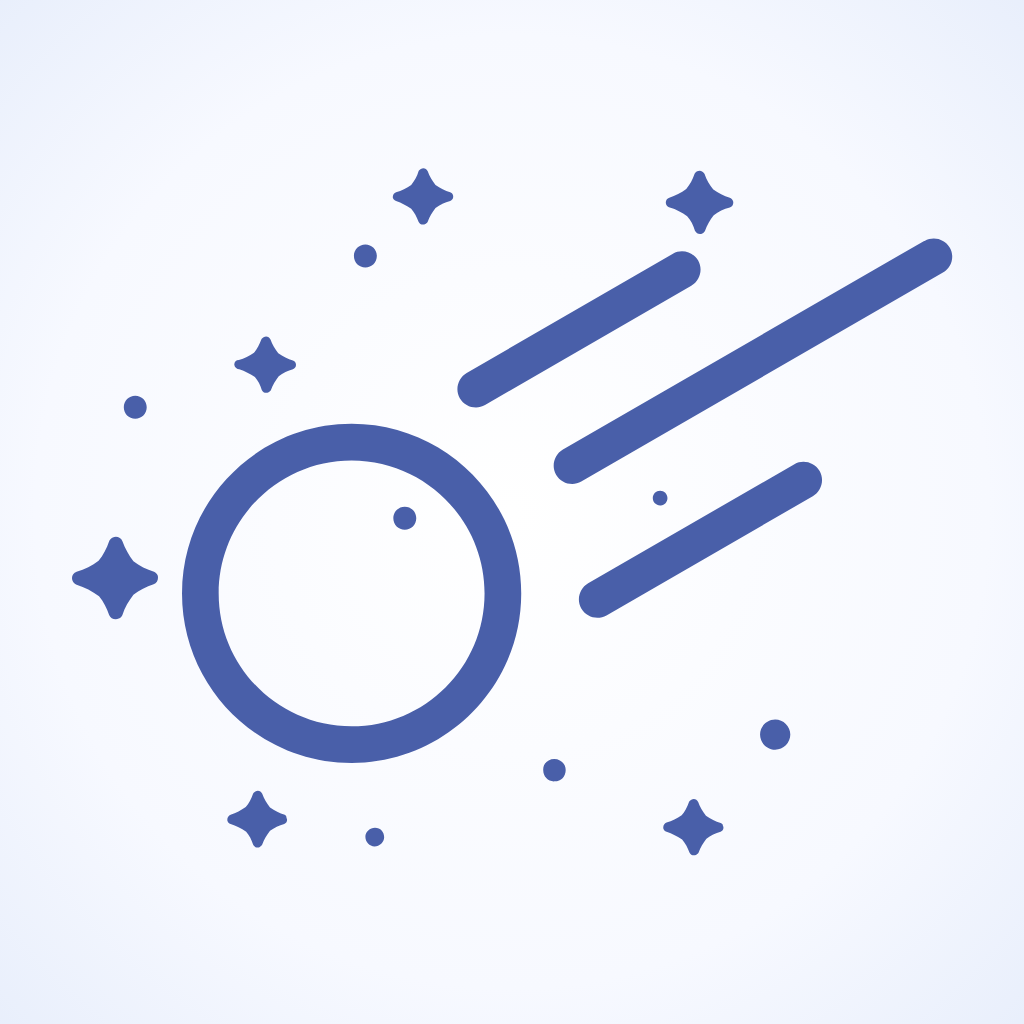
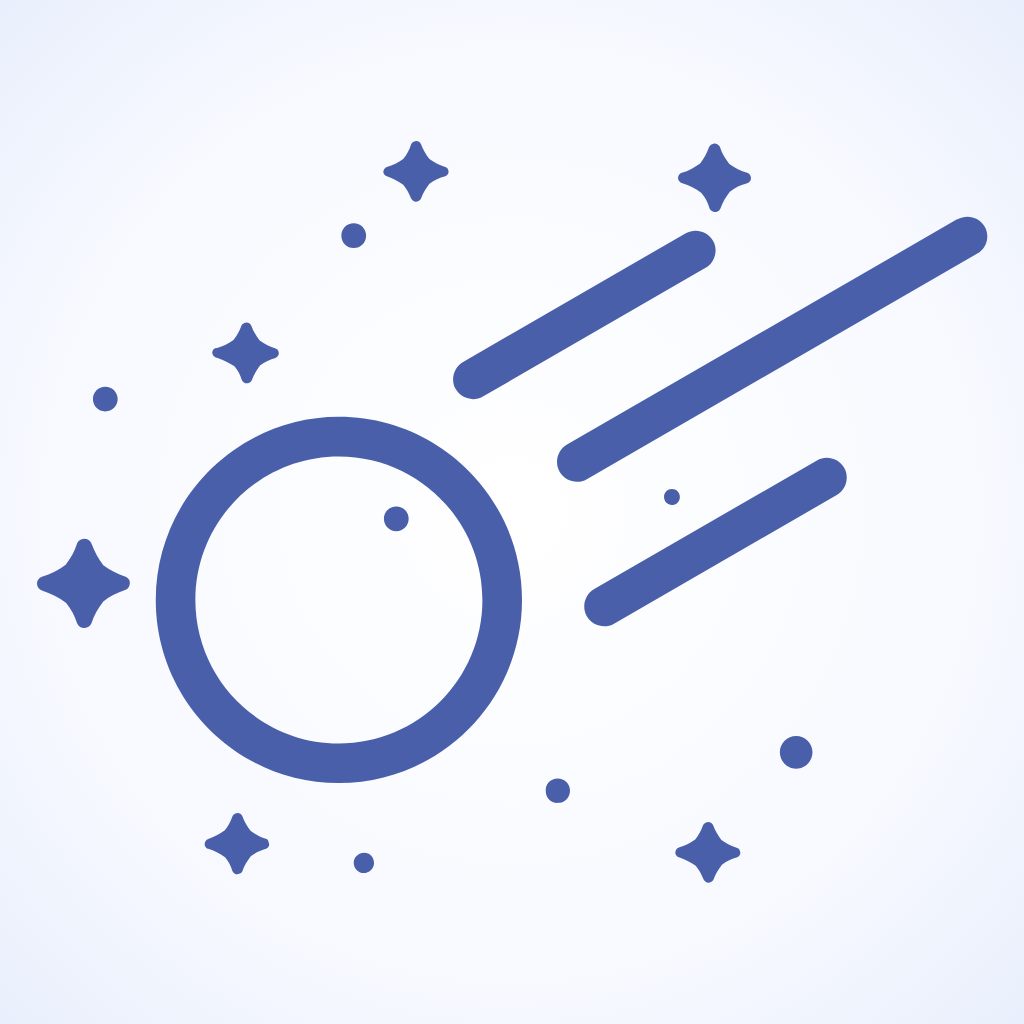
图标：放大图形并按尺寸矢量渲染

diff --git a/tool/icon_fg.html b/tool/icon_fg.html
@@ -3,7 +3,7 @@
 <style>html,body{margin:0;padding:0;overflow:hidden;background:transparent}svg{display:block}</style>
 </head><body>
 <svg width="1536" height="1536" viewBox="0 0 1536 1536" xmlns="http://www.w3.org/2000/svg">
-  <g transform="translate(328.0,424.3) scale(0.6712)">
+  <g transform="translate(293.00,396.99) scale(0.72464)">
 <path d="M890.566443 58.309087c9.561296 2.731799 18.439643 7.512447 25.95209 12.976044 5.463598 6.146548 9.561296 13.658995 11.610145 21.854392 2.048849 4.097698 6.829497 6.146548 10.927196 4.097698 2.048849-0.68295 3.414749-2.731799 4.097698-4.097698 2.731799-8.195397 7.512447-16.390793 12.976045-23.220291 6.829497-5.463598 15.024894-9.561296 23.903241-11.610145 4.097698-1.365899 6.146548-5.463598 4.780648-9.561297-0.68295-2.048849-2.731799-4.097698-4.780648-4.780648-8.878346-2.731799-17.073743-6.829497-24.586191-12.293095-5.463598-6.829497-10.244246-14.341944-12.976044-23.22029-2.048849-4.097698-6.829497-6.146548-10.927196-4.097699-2.048849 0.68295-3.414749 2.731799-4.097698 4.097699-2.731799 8.195397-6.829497 15.707844-12.293095 22.537341-7.512447 5.463598-16.390793 10.244246-25.26914 12.976044-4.097698 1.365899-6.146548 5.463598-4.780648 9.561297 0.68295 2.048849 2.731799 4.097698 5.463597 4.780648zM122.248001 601.254119c-10.927196-3.414749-21.854391-8.878346-30.732738-15.707843-6.829497-8.878346-12.293095-19.122592-16.390793-30.049788-2.048849-5.463598-8.878346-8.195397-14.341944-5.463598-2.731799 1.365899-4.780648 3.414749-5.463598 5.463598-3.414749 10.927196-8.878346 20.488492-15.707844 29.366838-9.561296 7.512447-20.488492 12.976045-32.781587 16.390793-5.463598 2.048849-8.195397 7.512447-6.146547 12.976045 0.68295 2.731799 3.414749 5.463598 6.146547 6.146548 12.293095 4.097698 23.220291 9.561296 33.464537 17.073743 6.829497 8.195397 11.610145 17.756693 15.024894 28.000939 2.048849 5.463598 8.878346 8.195397 14.341944 5.463597 2.731799-1.365899 4.780648-3.414749 5.463598-5.463597 3.414749-10.927196 9.561296-21.171442 16.390793-30.049788 8.878346-6.829497 19.122592-12.293095 30.049788-15.707844 5.463598-2.048849 7.512447-7.512447 6.146548-12.976045-0.68295-2.048849-2.731799-4.097698-5.463598-5.463598zM249.27665 299.39034c8.195397 2.731799 16.390793 6.829497 23.220291 11.610145 4.780648 5.463598 8.195397 12.293095 10.244246 19.122593 2.048849 4.097698 6.146548 5.463598 10.244246 3.414748 1.365899-0.68295 2.731799-2.048849 3.414748-3.414748 2.731799-7.512447 6.829497-14.341944 11.610146-20.488492 6.146548-4.780648 13.658995-8.195397 21.171441-10.244246 3.414749-1.365899 5.463598-4.780648 4.097699-8.878346-0.68295-2.048849-2.048849-3.414749-4.097699-4.097699-7.512447-2.048849-15.024894-6.146548-21.854391-10.927195-4.780648-6.146548-8.878346-12.976045-11.610145-20.488492-2.048849-4.097698-6.146548-5.463598-10.244246-3.414749-1.365899 0.68295-2.731799 2.048849-3.414749 3.414749-2.731799 7.512447-6.146548 13.658995-10.927196 19.805542-6.829497 4.780648-14.341944 8.878346-22.537341 10.927196-4.097698 0-6.829497 2.731799-6.829497 6.829497 0.68295 4.097698 4.097698 6.829497 7.512447 6.829497zM966.373863 975.510569c-7.512447-2.048849-15.024894-6.146548-21.854391-10.927195-4.780648-6.146548-8.878346-12.976045-11.610146-20.488492-2.048849-4.097698-6.146548-5.463598-10.244245-3.414749-1.365899 0.68295-2.731799 2.048849-3.414749 3.414749-2.731799 7.512447-6.146548 14.341944-10.927196 19.805542-6.829497 4.780648-14.341944 8.878346-22.537341 10.927196-3.414749 1.365899-5.463598 4.780648-4.780648 8.878346 0.68295 2.048849 2.048849 4.097698 4.780648 4.780648 8.195397 2.731799 16.390793 6.829497 23.220291 11.610146 4.780648 5.463598 8.195397 12.293095 10.927196 19.122592 2.048849 4.097698 6.146548 5.463598 10.244246 3.414749 1.365899-0.68295 2.731799-2.048849 3.414748-3.414749 2.731799-7.512447 6.829497-14.341944 11.610146-20.488492 6.146548-4.780648 13.658995-8.195397 21.171441-10.244246 3.414749-1.365899 5.463598-5.463598 3.414749-8.878346 0-2.048849-1.365899-3.414749-3.414749-4.097699zM887.151695 491.299213c0-6.146548-4.780648-10.927196-10.927196-10.927195-6.146548 0-10.927196 4.780648-10.927195 10.927195 0 6.146548 4.780648 10.927196 10.927195 10.927196 6.146548 0.68295 10.927196-4.780648 10.927196-10.927196zM1047.644881 821.163931c-12.293095 0-22.537341 10.244246-22.537341 22.537341s10.244246 22.537341 22.537341 22.537341 22.537341-10.244246 22.537341-22.537341c0-12.293095-10.244246-22.537341-22.537341-22.537341zM94.247062 373.148911c9.561296 0 17.073743-7.512447 17.073743-17.073744s-7.512447-17.073743-17.073743-17.073743-17.073743 7.512447-17.073743 17.073743 7.512447 17.073743 17.073743 17.073744zM451.429769 982.340067c-7.512447 0-14.341944 6.146548-14.341944 13.658994s6.146548 14.341944 13.658995 14.341944 14.341944-6.146548 14.341944-13.658994c0-8.195397-5.463598-14.341944-13.658995-14.341944zM482.845457 48.74779c8.195397 2.731799 15.707844 6.829497 22.537341 11.610146 4.780648 5.463598 8.195397 12.293095 10.927195 19.122592 2.048849 4.097698 6.146548 5.463598 10.244246 3.414749 1.365899-0.68295 2.731799-2.048849 3.414749-3.414749 2.731799-7.512447 6.829497-14.341944 11.610145-20.488492 6.829497-4.780648 13.658995-8.195397 21.854391-10.244246 3.414749-1.365899 5.463598-4.780648 4.097699-8.878346-0.68295-2.048849-2.048849-3.414749-4.097699-4.097698-7.512447-2.048849-15.024894-6.146548-21.854391-10.927196-4.780648-6.146548-8.878346-12.976045-11.610145-20.488492-2.048849-4.097698-6.146548-5.463598-10.244246-3.414748-1.365899 0.68295-2.731799 2.048849-3.414749 3.414748-2.048849 7.512447-6.146548 14.341944-10.927195 20.488492-6.829497 4.780648-14.341944 8.878346-22.537341 10.927196-3.414749 1.365899-5.463598 4.780648-4.780648 8.195396 0.68295 2.731799 2.731799 4.097698 4.780648 4.780648zM718.463112 879.897608c-9.561296 0-17.073743 7.512447-16.390793 17.073743 0 9.561296 7.512447 17.073743 17.073743 16.390793 9.561296 0 16.390793-7.512447 16.390794-17.073743 0-8.878346-7.512447-16.390793-17.073744-16.390793zM437.087825 147.775501c9.561296 0 17.073743-7.512447 17.073743-17.073743s-7.512447-17.073743-17.073743-17.073744-17.073743 7.512447-17.073743 17.073744 7.512447 17.073743 17.073743 17.073743zM316.888673 963.217474c-7.512447-2.048849-15.024894-6.146548-21.854391-10.927195-4.780648-6.146548-8.878346-12.976045-11.610145-20.488492-2.048849-4.097698-6.146548-5.463598-10.244246-3.414749-1.365899 0.68295-2.731799 2.048849-3.414749 3.414749-2.731799 7.512447-6.146548 14.341944-10.927196 19.805542-6.829497 4.780648-14.341944 8.878346-22.537341 11.610145-3.414749 1.365899-5.463598 4.780648-4.780648 8.878347 0.68295 2.048849 2.048849 4.097698 4.780648 4.780648 8.195397 2.731799 15.707844 6.146548 23.220291 11.610145 4.780648 5.463598 8.195397 12.293095 10.244246 19.122593 2.048849 4.097698 6.146548 5.463598 10.244246 3.414748 1.365899-0.68295 2.731799-2.048849 3.414749-3.414748 2.731799-7.512447 6.829497-14.341944 11.610145-20.488492 6.146548-4.780648 13.658995-8.195397 21.171441-10.244246 3.414749-1.365899 5.463598-5.463598 3.414749-8.878347 0-2.731799-1.365899-4.097698-2.731799-4.780648zM495.821501 504.275258c-9.561296 0-17.073743 7.512447-17.073743 17.073743s7.512447 17.073743 17.073743 17.073743 17.073743-7.512447 17.073744-17.073743-7.512447-17.073743-17.073744-17.073743z" fill="#495FA9"/>
 <path d="M416.599333 380.661358c-139.321744 0-252.691399 113.369655-252.691399 252.691398s113.369655 252.691399 252.691399 252.691399 252.691399-113.369655 252.691399-252.691399-113.369655-252.691399-252.691399-252.691398z m0 450.746819c-109.271956 0-198.055421-88.783464-198.05542-198.055421s88.783464-198.055421 198.05542-198.05542 198.055421 88.783464 198.055421 198.05542-88.783464 198.055421-198.055421 198.055421zM1307.848726 118.408663c-7.512447-12.976045-23.90324-17.756693-37.562235-10.244246h-0.682949l-538.164385 310.742125c-12.976045 7.512447-17.756693 24.58619-10.244246 37.562235s24.58619 17.756693 37.562235 10.244246L1297.60448 155.287948c12.976045-7.512447 17.756693-23.90324 10.244246-36.879285zM1076.328769 440.760934l-307.327377 177.566928c-12.976045 7.512447-17.756693 24.58619-10.244246 37.562235s24.58619 17.756693 37.562235 10.244246l307.327377-177.566929c12.976045-7.512447 17.756693-24.58619 10.244246-37.562235s-24.58619-17.756693-37.562235-10.244245zM615.337704 352.660419l307.327377-177.566929c12.976045-7.512447 17.756693-24.58619 10.244245-37.562235s-24.58619-17.756693-37.562234-10.244246l-307.327377 177.566929c-12.976045 7.512447-17.756693 24.58619-10.244246 37.562235s24.58619 17.756693 37.562235 10.244246z" fill="#495FA9"/>
 

diff --git a/tool/icon.html b/tool/icon.html
@@ -11,7 +11,7 @@
     </radialGradient>
   </defs>
   <rect width="1024" height="1024" fill="url(#bg)"/>
-  <g transform="translate(72.0,168.3) scale(0.6712)">
+  <g transform="translate(37.00,140.99) scale(0.72464)">
 <path d="M890.566443 58.309087c9.561296 2.731799 18.439643 7.512447 25.95209 12.976044 5.463598 6.146548 9.561296 13.658995 11.610145 21.854392 2.048849 4.097698 6.829497 6.146548 10.927196 4.097698 2.048849-0.68295 3.414749-2.731799 4.097698-4.097698 2.731799-8.195397 7.512447-16.390793 12.976045-23.220291 6.829497-5.463598 15.024894-9.561296 23.903241-11.610145 4.097698-1.365899 6.146548-5.463598 4.780648-9.561297-0.68295-2.048849-2.731799-4.097698-4.780648-4.780648-8.878346-2.731799-17.073743-6.829497-24.586191-12.293095-5.463598-6.829497-10.244246-14.341944-12.976044-23.22029-2.048849-4.097698-6.829497-6.146548-10.927196-4.097699-2.048849 0.68295-3.414749 2.731799-4.097698 4.097699-2.731799 8.195397-6.829497 15.707844-12.293095 22.537341-7.512447 5.463598-16.390793 10.244246-25.26914 12.976044-4.097698 1.365899-6.146548 5.463598-4.780648 9.561297 0.68295 2.048849 2.731799 4.097698 5.463597 4.780648zM122.248001 601.254119c-10.927196-3.414749-21.854391-8.878346-30.732738-15.707843-6.829497-8.878346-12.293095-19.122592-16.390793-30.049788-2.048849-5.463598-8.878346-8.195397-14.341944-5.463598-2.731799 1.365899-4.780648 3.414749-5.463598 5.463598-3.414749 10.927196-8.878346 20.488492-15.707844 29.366838-9.561296 7.512447-20.488492 12.976045-32.781587 16.390793-5.463598 2.048849-8.195397 7.512447-6.146547 12.976045 0.68295 2.731799 3.414749 5.463598 6.146547 6.146548 12.293095 4.097698 23.220291 9.561296 33.464537 17.073743 6.829497 8.195397 11.610145 17.756693 15.024894 28.000939 2.048849 5.463598 8.878346 8.195397 14.341944 5.463597 2.731799-1.365899 4.780648-3.414749 5.463598-5.463597 3.414749-10.927196 9.561296-21.171442 16.390793-30.049788 8.878346-6.829497 19.122592-12.293095 30.049788-15.707844 5.463598-2.048849 7.512447-7.512447 6.146548-12.976045-0.68295-2.048849-2.731799-4.097698-5.463598-5.463598zM249.27665 299.39034c8.195397 2.731799 16.390793 6.829497 23.220291 11.610145 4.780648 5.463598 8.195397 12.293095 10.244246 19.122593 2.048849 4.097698 6.146548 5.463598 10.244246 3.414748 1.365899-0.68295 2.731799-2.048849 3.414748-3.414748 2.731799-7.512447 6.829497-14.341944 11.610146-20.488492 6.146548-4.780648 13.658995-8.195397 21.171441-10.244246 3.414749-1.365899 5.463598-4.780648 4.097699-8.878346-0.68295-2.048849-2.048849-3.414749-4.097699-4.097699-7.512447-2.048849-15.024894-6.146548-21.854391-10.927195-4.780648-6.146548-8.878346-12.976045-11.610145-20.488492-2.048849-4.097698-6.146548-5.463598-10.244246-3.414749-1.365899 0.68295-2.731799 2.048849-3.414749 3.414749-2.731799 7.512447-6.146548 13.658995-10.927196 19.805542-6.829497 4.780648-14.341944 8.878346-22.537341 10.927196-4.097698 0-6.829497 2.731799-6.829497 6.829497 0.68295 4.097698 4.097698 6.829497 7.512447 6.829497zM966.373863 975.510569c-7.512447-2.048849-15.024894-6.146548-21.854391-10.927195-4.780648-6.146548-8.878346-12.976045-11.610146-20.488492-2.048849-4.097698-6.146548-5.463598-10.244245-3.414749-1.365899 0.68295-2.731799 2.048849-3.414749 3.414749-2.731799 7.512447-6.146548 14.341944-10.927196 19.805542-6.829497 4.780648-14.341944 8.878346-22.537341 10.927196-3.414749 1.365899-5.463598 4.780648-4.780648 8.878346 0.68295 2.048849 2.048849 4.097698 4.780648 4.780648 8.195397 2.731799 16.390793 6.829497 23.220291 11.610146 4.780648 5.463598 8.195397 12.293095 10.927196 19.122592 2.048849 4.097698 6.146548 5.463598 10.244246 3.414749 1.365899-0.68295 2.731799-2.048849 3.414748-3.414749 2.731799-7.512447 6.829497-14.341944 11.610146-20.488492 6.146548-4.780648 13.658995-8.195397 21.171441-10.244246 3.414749-1.365899 5.463598-5.463598 3.414749-8.878346 0-2.048849-1.365899-3.414749-3.414749-4.097699zM887.151695 491.299213c0-6.146548-4.780648-10.927196-10.927196-10.927195-6.146548 0-10.927196 4.780648-10.927195 10.927195 0 6.146548 4.780648 10.927196 10.927195 10.927196 6.146548 0.68295 10.927196-4.780648 10.927196-10.927196zM1047.644881 821.163931c-12.293095 0-22.537341 10.244246-22.537341 22.537341s10.244246 22.537341 22.537341 22.537341 22.537341-10.244246 22.537341-22.537341c0-12.293095-10.244246-22.537341-22.537341-22.537341zM94.247062 373.148911c9.561296 0 17.073743-7.512447 17.073743-17.073744s-7.512447-17.073743-17.073743-17.073743-17.073743 7.512447-17.073743 17.073743 7.512447 17.073743 17.073743 17.073744zM451.429769 982.340067c-7.512447 0-14.341944 6.146548-14.341944 13.658994s6.146548 14.341944 13.658995 14.341944 14.341944-6.146548 14.341944-13.658994c0-8.195397-5.463598-14.341944-13.658995-14.341944zM482.845457 48.74779c8.195397 2.731799 15.707844 6.829497 22.537341 11.610146 4.780648 5.463598 8.195397 12.293095 10.927195 19.122592 2.048849 4.097698 6.146548 5.463598 10.244246 3.414749 1.365899-0.68295 2.731799-2.048849 3.414749-3.414749 2.731799-7.512447 6.829497-14.341944 11.610145-20.488492 6.829497-4.780648 13.658995-8.195397 21.854391-10.244246 3.414749-1.365899 5.463598-4.780648 4.097699-8.878346-0.68295-2.048849-2.048849-3.414749-4.097699-4.097698-7.512447-2.048849-15.024894-6.146548-21.854391-10.927196-4.780648-6.146548-8.878346-12.976045-11.610145-20.488492-2.048849-4.097698-6.146548-5.463598-10.244246-3.414748-1.365899 0.68295-2.731799 2.048849-3.414749 3.414748-2.048849 7.512447-6.146548 14.341944-10.927195 20.488492-6.829497 4.780648-14.341944 8.878346-22.537341 10.927196-3.414749 1.365899-5.463598 4.780648-4.780648 8.195396 0.68295 2.731799 2.731799 4.097698 4.780648 4.780648zM718.463112 879.897608c-9.561296 0-17.073743 7.512447-16.390793 17.073743 0 9.561296 7.512447 17.073743 17.073743 16.390793 9.561296 0 16.390793-7.512447 16.390794-17.073743 0-8.878346-7.512447-16.390793-17.073744-16.390793zM437.087825 147.775501c9.561296 0 17.073743-7.512447 17.073743-17.073743s-7.512447-17.073743-17.073743-17.073744-17.073743 7.512447-17.073743 17.073744 7.512447 17.073743 17.073743 17.073743zM316.888673 963.217474c-7.512447-2.048849-15.024894-6.146548-21.854391-10.927195-4.780648-6.146548-8.878346-12.976045-11.610145-20.488492-2.048849-4.097698-6.146548-5.463598-10.244246-3.414749-1.365899 0.68295-2.731799 2.048849-3.414749 3.414749-2.731799 7.512447-6.146548 14.341944-10.927196 19.805542-6.829497 4.780648-14.341944 8.878346-22.537341 11.610145-3.414749 1.365899-5.463598 4.780648-4.780648 8.878347 0.68295 2.048849 2.048849 4.097698 4.780648 4.780648 8.195397 2.731799 15.707844 6.146548 23.220291 11.610145 4.780648 5.463598 8.195397 12.293095 10.244246 19.122593 2.048849 4.097698 6.146548 5.463598 10.244246 3.414748 1.365899-0.68295 2.731799-2.048849 3.414749-3.414748 2.731799-7.512447 6.829497-14.341944 11.610145-20.488492 6.146548-4.780648 13.658995-8.195397 21.171441-10.244246 3.414749-1.365899 5.463598-5.463598 3.414749-8.878347 0-2.731799-1.365899-4.097698-2.731799-4.780648zM495.821501 504.275258c-9.561296 0-17.073743 7.512447-17.073743 17.073743s7.512447 17.073743 17.073743 17.073743 17.073743-7.512447 17.073744-17.073743-7.512447-17.073743-17.073744-17.073743z" fill="#495FA9"/>
 <path d="M416.599333 380.661358c-139.321744 0-252.691399 113.369655-252.691399 252.691398s113.369655 252.691399 252.691399 252.691399 252.691399-113.369655 252.691399-252.691399-113.369655-252.691399-252.691399-252.691398z m0 450.746819c-109.271956 0-198.055421-88.783464-198.05542-198.055421s88.783464-198.055421 198.05542-198.05542 198.055421 88.783464 198.055421 198.05542-88.783464 198.055421-198.055421 198.055421zM1307.848726 118.408663c-7.512447-12.976045-23.90324-17.756693-37.562235-10.244246h-0.682949l-538.164385 310.742125c-12.976045 7.512447-17.756693 24.58619-10.244246 37.562235s24.58619 17.756693 37.562235 10.244246L1297.60448 155.287948c12.976045-7.512447 17.756693-23.90324 10.244246-36.879285zM1076.328769 440.760934l-307.327377 177.566928c-12.976045 7.512447-17.756693 24.58619-10.244246 37.562235s24.58619 17.756693 37.562235 10.244246l307.327377-177.566929c12.976045-7.512447 17.756693-24.58619 10.244246-37.562235s-24.58619-17.756693-37.562235-10.244245zM615.337704 352.660419l307.327377-177.566929c12.976045-7.512447 17.756693-24.58619 10.244245-37.562235s-24.58619-17.756693-37.562234-10.244246l-307.327377 177.566929c-12.976045 7.512447-17.756693 24.58619-10.244246 37.562235s24.58619 17.756693 37.562235 10.244246z" fill="#495FA9"/>
 
